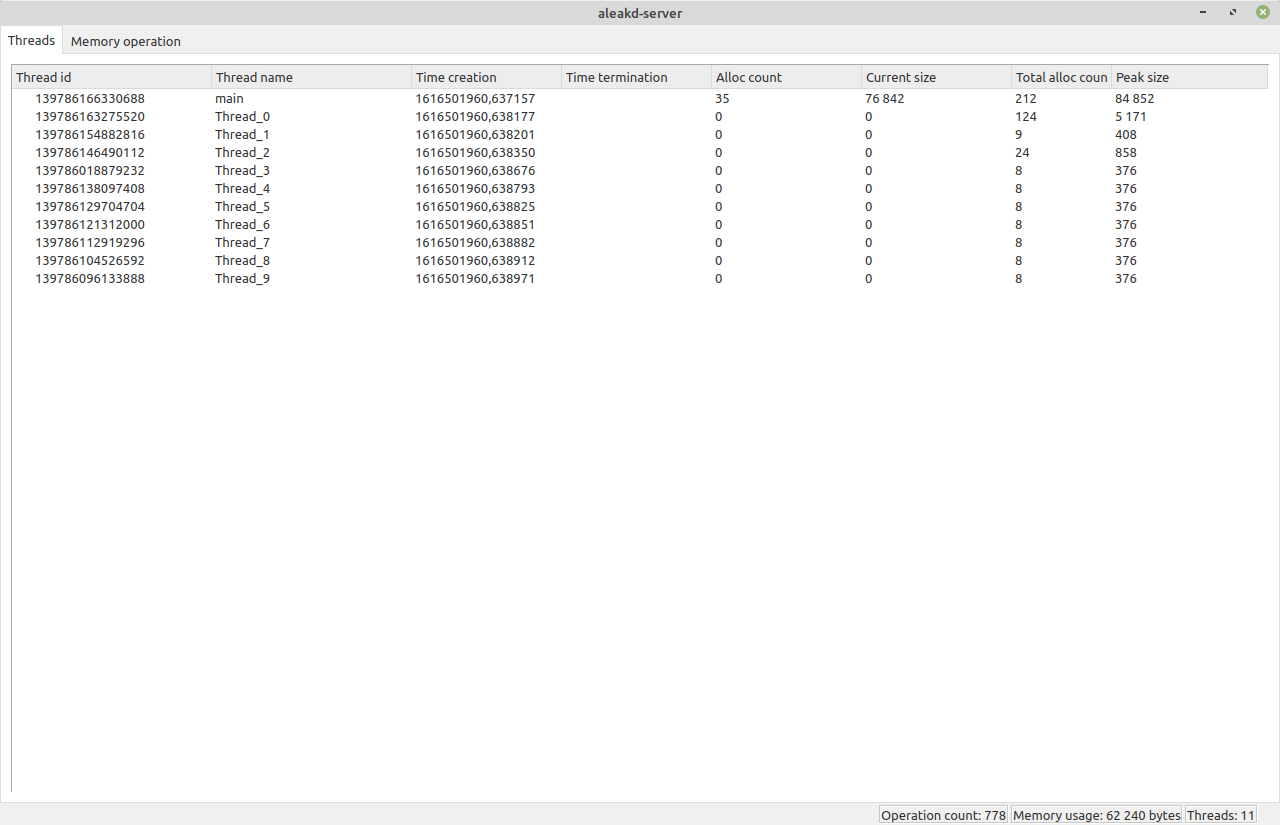
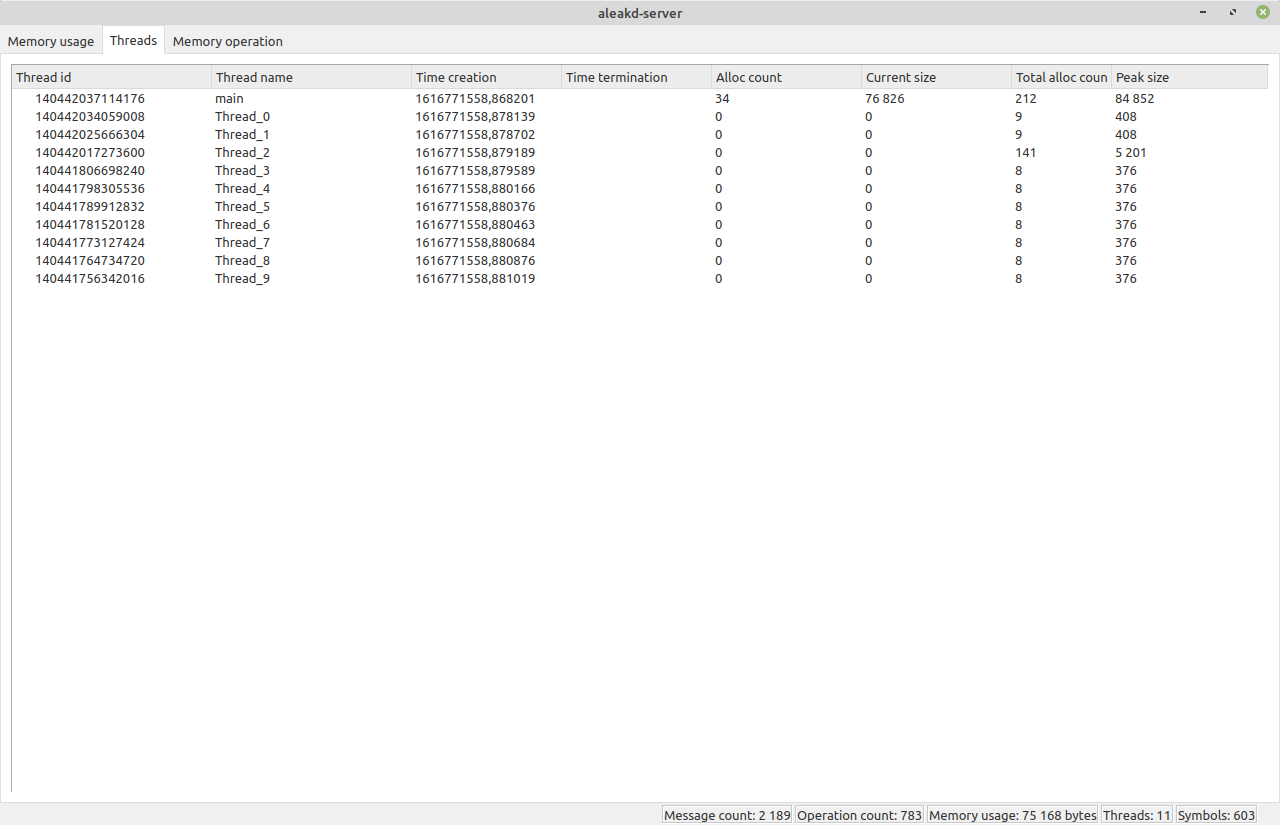
Add screentshot

diff --git a/README.md b/README.md
@@ -26,6 +26,7 @@ Features
 - Use filter in the GUI to find a memory operation
 - Colored view for each memory allocation to view directly the state (free or not free)
 - Get backtrace for every memory operation
+- View graphical memory usage
 
 Build
 --------
@@ -74,3 +75,5 @@ Screenshot
 
 ![alt text](https://raw.githubusercontent.com/Jet1oeil/aleakd/master/doc/aleakd-screenshot-1.png)
 ![alt text](https://raw.githubusercontent.com/Jet1oeil/aleakd/master/doc/aleakd-screenshot-2.png)
+![alt text](https://raw.githubusercontent.com/Jet1oeil/aleakd/master/doc/aleakd-screenshot-3.png)
+![alt text](https://raw.githubusercontent.com/Jet1oeil/aleakd/master/doc/aleakd-screenshot-4.png)
